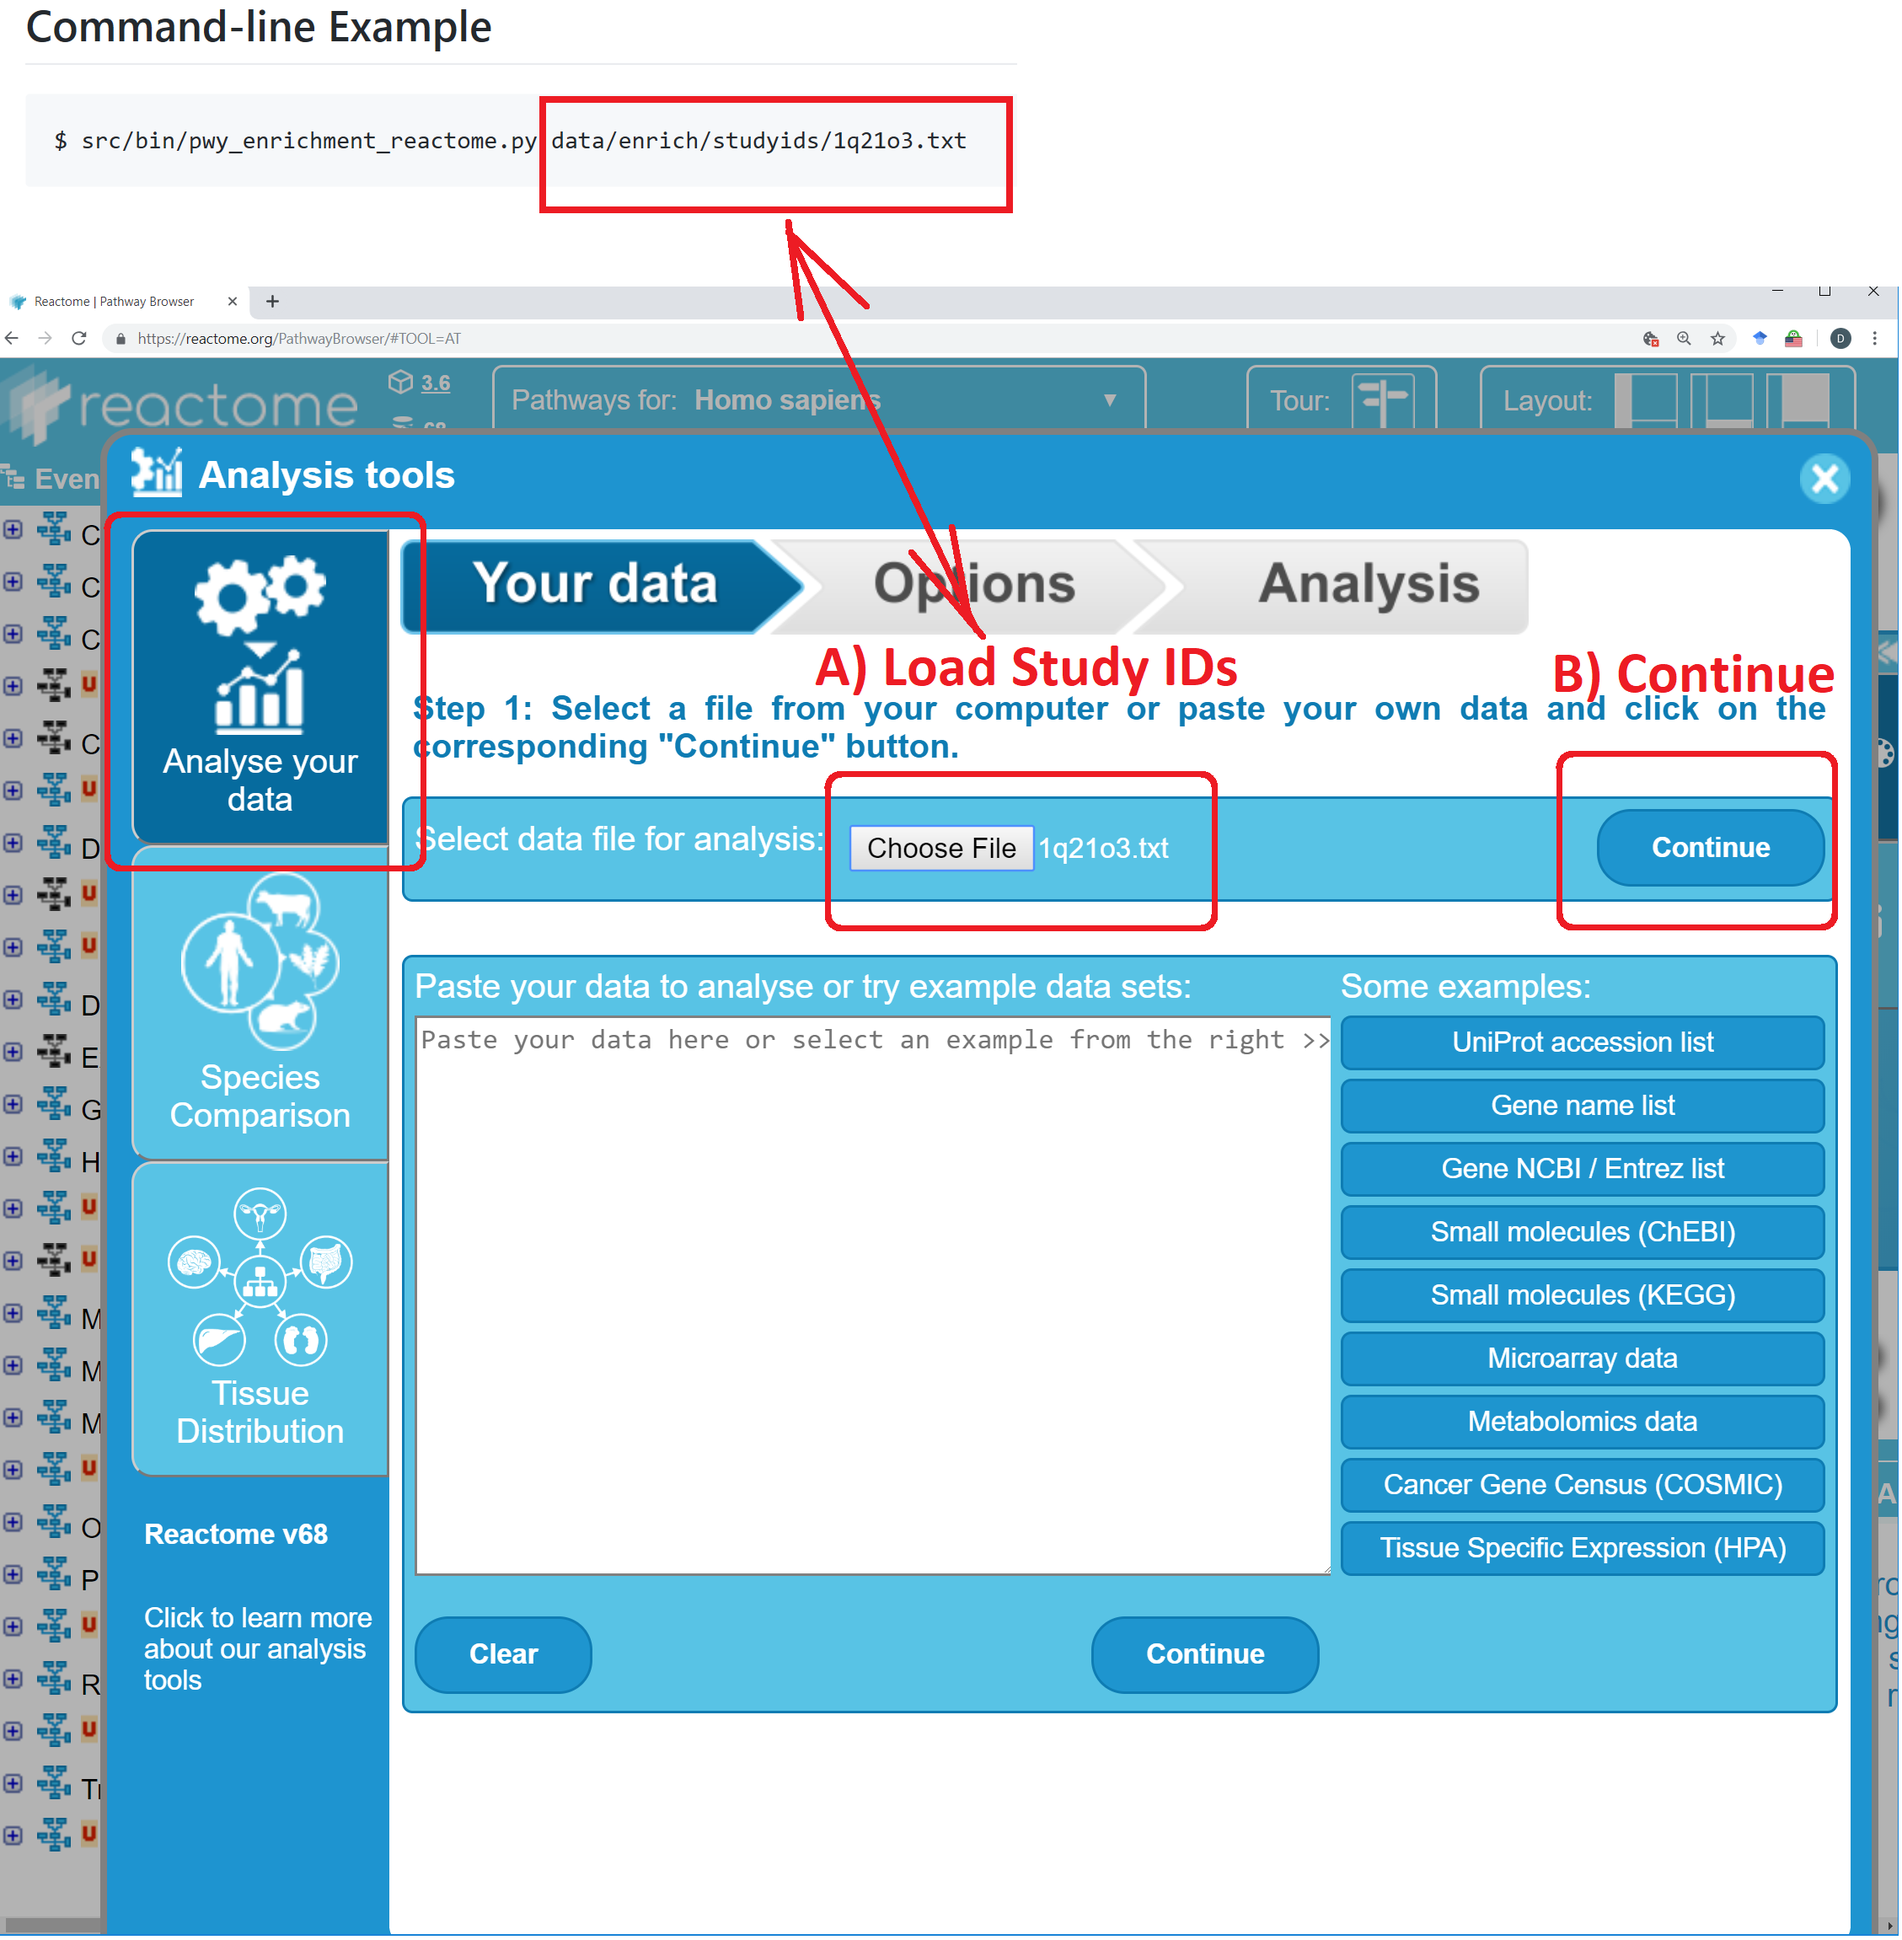
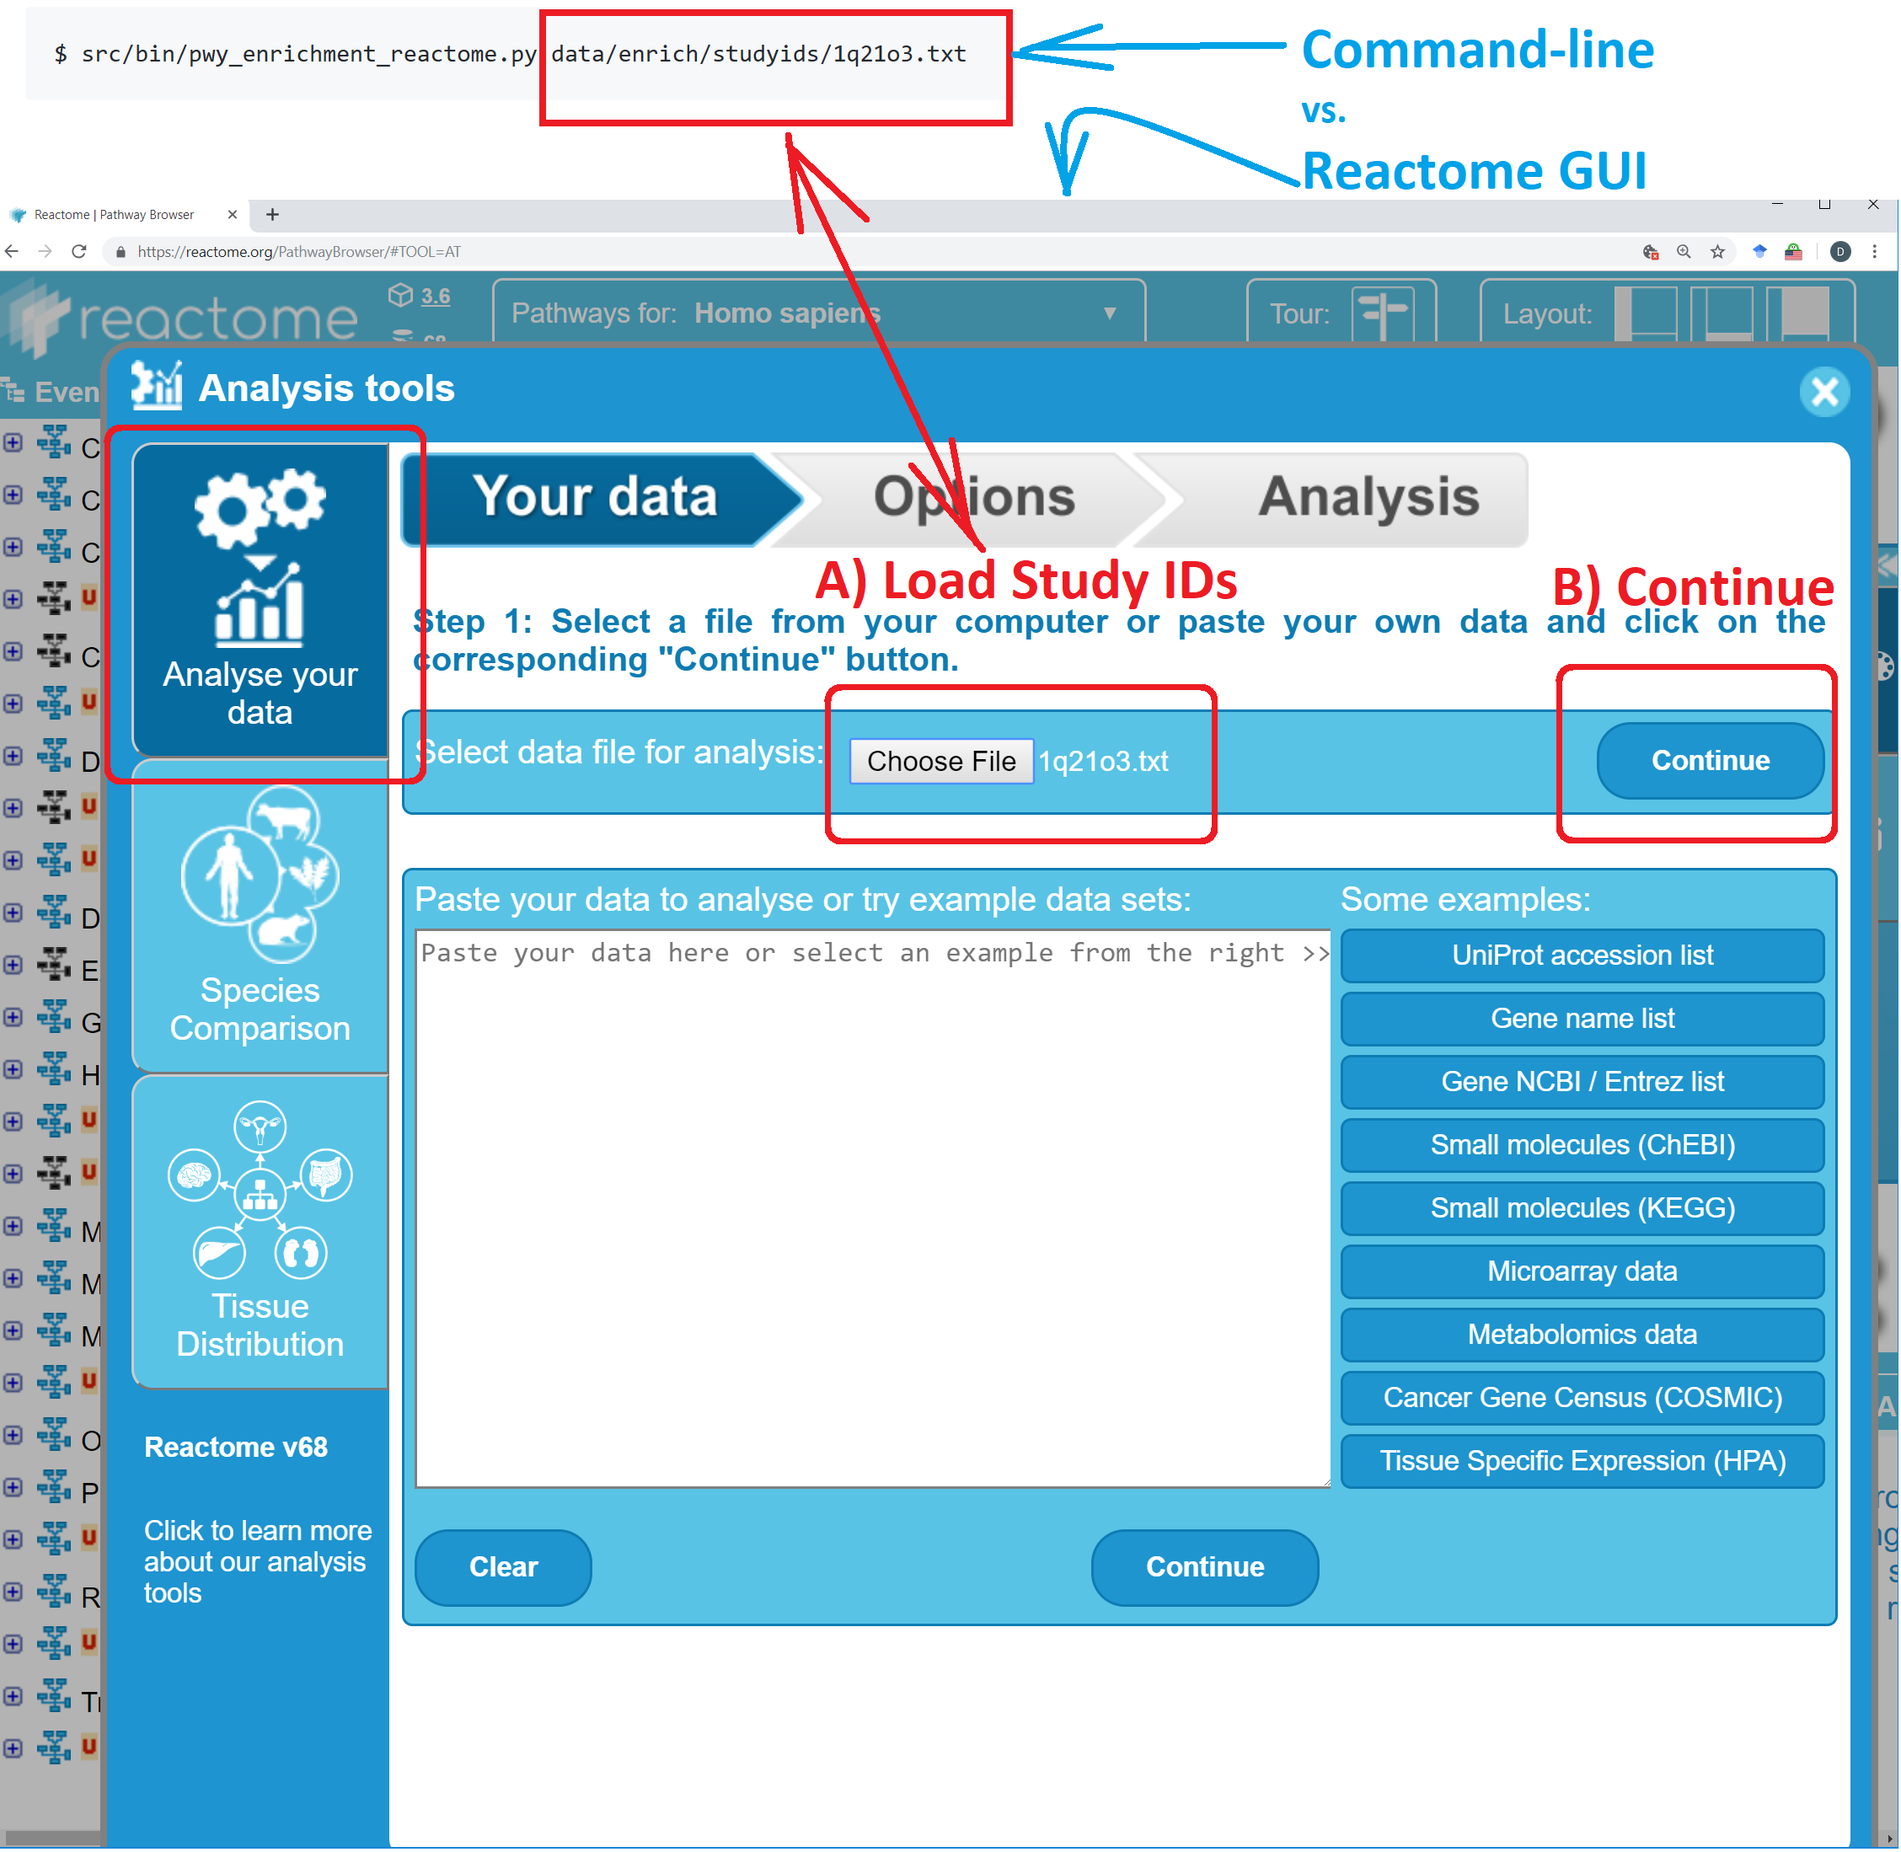
Added more detail to figure

diff --git a/doc/md/README_analyses.md b/doc/md/README_analyses.md
@@ -24,6 +24,9 @@ Click on **Analyze Data** to begin a pathway enrichment analysis.
 ![Reactome's Pathway Analysis](images/anal00_analyze_data.png)
 
 ### 2) Load Study IDs
+Load the study ID file
+from the [**command line**](#command-line-examples)
+or in Reactome's [**Analyse Data Tool GUI**](https://reactome.org/PathwayBrowser/#TOOL=AT).
 ![Load Study IDs into Reactome](images/anal01_load_study_ids.png)
 
 
